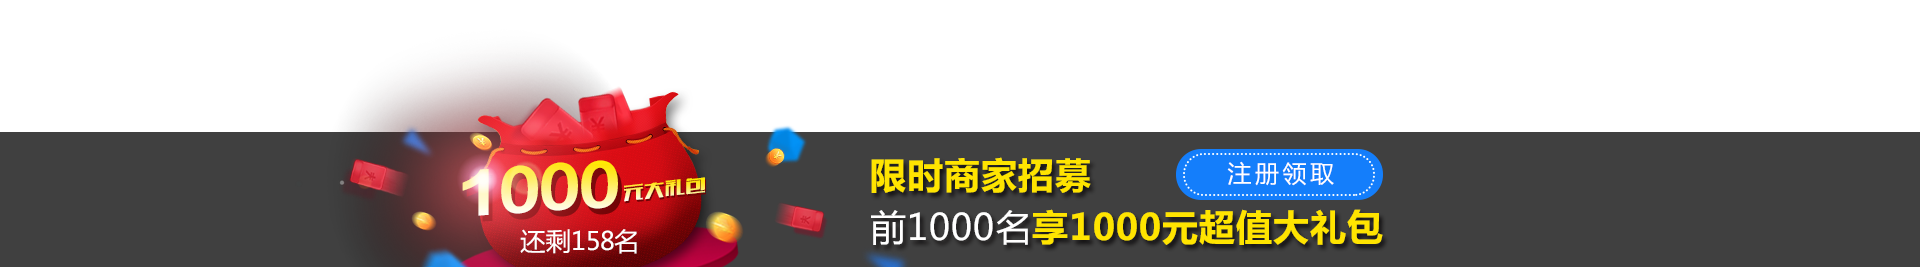
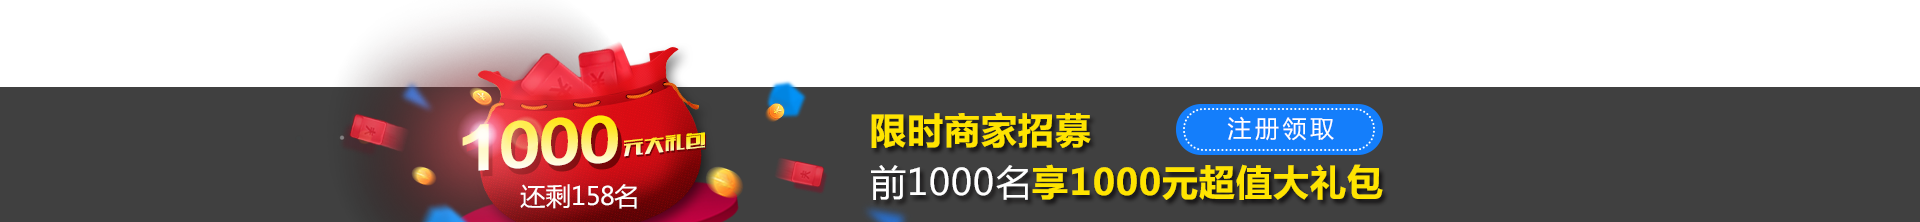
商家落地页开发

Changed region(s): [[0.0, 0.1081, 1.0, 0.973]]

diff --git a/src/view/SellerSpread.vue b/src/view/SellerSpread.vue
@@ -2,7 +2,7 @@
   <div class="seller-adv">
 
     <div id="pageContain">
-      <div class="page page1 current">
+      <div class="page page1 current ">
         <div class="contain">
           <div>
             <router-link to="/" class="left">
@@ -16,12 +16,17 @@
               </a>
             </p>
           </div>
-          <div class="clear-both text-ct adv-text1-box">
-            <p>
+          <div class="clear-both text-ct adv-text1-box ">
+            <p class="title">
               <img class="adv-text-img" src="/static/img/seller-adv/seller-adv-text1.png" alt="">
             </p>
+            <div class="titleEng">
+              <router-link to="/register/seller-register" class="adv-login-register ">立即注册</router-link>
+              <a class="block move-arrow-down" style="margin-top: 140px " @click="FullPage.next()">
+                <img src="/static/img/common/big-down.png" alt="">
+              </a>
+            </div>
 
-            <router-link to="/register/seller-register" class="adv-login-register">立即注册</router-link>
           </div>
         </div>
       </div>
@@ -39,12 +44,17 @@
               </a>
             </p>
           </div>
-          <div class="clear-both text-ct adv-text1-box">
-            <p class="">
+          <div class="clear-both text-ct adv-text1-box ">
+            <p class="title">
               <img class="adv-text-img" src="/static/img/seller-adv/seller-adv-text2.png" alt="">
             </p>
+            <div class="titleEng">
+              <router-link to="/register/seller-register" class="adv-login-register ">立即注册</router-link>
+              <a class="block move-arrow-down" style="margin-top: 140px " @click="FullPage.next()">
+                <img src="/static/img/common/big-down.png" alt="">
+              </a>
+            </div>
 
-            <router-link to="/register/seller-register" class="adv-login-register">立即注册</router-link>
           </div>
         </div>
       </div>
@@ -62,12 +72,17 @@
               </a>
             </p>
           </div>
-          <div class="clear-both text-ct adv-text1-box">
-            <p>
+          <div class="clear-both text-ct adv-text1-box ">
+            <p class="title">
               <img class="adv-text-img" src="/static/img/seller-adv/seller-adv-text3.png" alt="">
             </p>
+            <div class="titleEng">
+              <router-link to="/register/seller-register" class="adv-login-register ">立即注册</router-link>
+              <a class="block move-arrow-down" style="margin-top: 140px " @click="FullPage.next()">
+                <img src="/static/img/common/big-down.png" alt="">
+              </a>
+            </div>
 
-            <router-link to="/register/seller-register" class="adv-login-register">立即注册</router-link>
           </div>
         </div>
       </div>
@@ -85,12 +100,17 @@
               </a>
             </p>
           </div>
-          <div class="clear-both text-ct adv-text1-box">
-            <p>
+          <div class="clear-both text-ct adv-text1-box ">
+            <p class="title">
               <img class="adv-text-img" src="/static/img/seller-adv/seller-adv-text4.png" alt="">
             </p>
+            <div class="titleEng">
+              <router-link to="/register/seller-register" class="adv-login-register ">立即注册</router-link>
+              <a class="block move-arrow-down" style="margin-top: 70px " @click="FullPage.go(0)">
+                <img src="/static/img/common/big-down.png" alt="">
+              </a>
+            </div>
 
-            <router-link to="/register/seller-register" class="adv-login-register">立即注册</router-link>
           </div>
         </div>
       </div>
@@ -101,7 +121,7 @@
       <li></li>
       <li></li>
     </ul>
-    <div v-show="advBottomShow" style="position: fixed; bottom: 0; width: 100%; z-index: 1;">
+    <div  :class="[advBottomShow ? 'animated fadeIn' : 'animated fadeOutDown']" style="position: fixed; bottom: 0; width: 100%; z-index: 1;">
       <a @click="goRegisterFunc($event)">
         <img src="/static/img/seller-adv/adv-bottom.png" alt="" style="width: 100%; display: block;">
         <span class="clfff fs-20 adv-bottom-closed" @click="colsedAdvBottomFunc($event)">&times;</span>
@@ -132,6 +152,7 @@
           }
         },
         advBottomShow: true,
+        FullPage: null,
       }
     },
     created() {
@@ -151,8 +172,9 @@
       }
     },
     mounted: function () {
-      this.$nextTick(function () {
-        let runPage = new FullPage({
+      let self = this;
+      self.$nextTick(function () {
+        self.FullPage  = new FullPage({
 
           id : 'pageContain',                            // id of contain
           slideTime : 800,                               // time of slide
@@ -168,15 +190,15 @@
           mode : 'wheel,touch,nav:navBar',               // mode of fullpage
           start : 0,                                     // which page will display when install
           easing : 'fadeInDown',                                   // easing('ease','ease-in','ease-in-out' or use cubic-bezier like [.33, 1.81, 1, 1];
-          //  ,onSwipeStart : function(index, thisPage) {   // callback before pageChange
-          //    return 'stop';
-          //  }
-          //  ,beforeChange : function(index, thisPage) {   // callback before pageChange
-          //    return 'stop';
-          //  }
-          //  ,callback : function(index, thisPage) {       // callback when pageChange
-          //    alert(index);
-          //  };
+          onSwipeStart : function(index, thisPage) {   // callback before pageChange
+            self.advBottomShow = true;
+          },
+          beforeChange : function(index, thisPage) {   // callback before pageChange
+            self.advBottomShow = false;
+          },
+          callback : function(index, thisPage) {       // callback when pageChange
+            self.advBottomShow = true;
+          },
         });
 
       })
@@ -186,17 +208,6 @@
 
 <style lang="scss" scoped>
   @import 'src/css/mixin';
-  .seller-bottom{
-    background-color: #351E97;
-    height: 170px;
-    >div{
-      div{
-        width: 300px;
-        margin: 45px auto;
-        text-align: center;
-      }
-    }
-  }
   .adv-top-part{
     margin-right: 122px;
     margin-top: 55px;
@@ -231,7 +242,7 @@
     color: #fff;
   }
   .adv-text1-box{
-    margin-top: 10%;
+    margin-top: 8%;
     float: left;
     width: 100%;
   }
@@ -240,7 +251,7 @@
   }
   .adv-bottom-closed{
     position: absolute;
-    top: 48%;
+    top: 36%;
     right: 24%;
     z-index: 3;
     color: #fff;
@@ -338,7 +349,138 @@
     opacity: 0;
   }
 
+  .title,.titleEng {
+    -webkit-animation:dragTop .7s ease-in-out both;
+    -moz-animation:dragTop .7s ease-in-out both;
+    -ms-animation:dragTop .7s ease-in-out both;
+    animation:dragTop .7s ease-in-out both;
+    text-align: center;
+    color: #fff;
+    top: 13%;
+    left: 50%;
+  }
+  .title {
+    -webkit-animation-delay: .8s;
+    -moz-animation-delay:.8s;
+    -ms-animation-delay:.8s;
+    animation-delay:.8s;
+    width: 100%;
 
+  }
+  .titleEng {
+    -webkit-animation-delay: 1.2s;
+    -moz-animation-delay:1.2s;
+    -ms-animation-delay:1.2s;
+    animation-delay:1.2s;
+  }
+  .move-arrow-down {
+    -webkit-animation: float ease-in-out 2s infinite;
+    animation: float ease-in-out 2s infinite;
+  }
+  @-webkit-keyframes float {
+    0% {
+      -webkit-transform: translateY(0);
+      transform: translateY(0);
+    }
+    50% {
+      -webkit-transform: translateY(20px);
+      transform: translateY(20px);
+    }
+    100% {
+      -webkit-transform: translateY(0);
+      transform: translateY(0);
+    }
+  }
+  @keyframes float {
+    0% {
+      -webkit-transform: translateY(0);
+      transform: translateY(0);
+    }
+    50% {
+      -webkit-transform: translateY(20px);
+      transform: translateY(20px);
+    }
+    100% {
+      -webkit-transform: translateY(0);
+      transform: translateY(0);
+    }
+  }
+  @keyframes dragTop {
+    0% {
+      opacity:0;
+      transform:translateY(-70px)
+    }
+    60% {
+      opacity:1;
+      transform:translateY(20px)
+    }
+    90% {
+      transform:translateY(-5px)
+    }
+    97% {
+      transform:translateY(-1px)
+    }
+    100% {
+      transform:translateY(0px)
+    }
+  }
+  @-webkit-keyframes dragTop {
+    0% {
+      opacity:0;
+      -webkit-transform:translateY(-70px)
+    }
+    60% {
+      opacity:1;
+      -webkit-transform:translateY(20px)
+    }
+    90% {
+      -webkit-transform:translateY(-5px)
+    }
+    97% {
+      -webkit-transform:translateY(-1px)
+    }
+    100% {
+      -webkit-transform:translateY(0px)
+    }
+  }
+  @-moz-keyframes dragTop {
+    0% {
+      opacity:0;
+      -moz-transform:translateY(-70px)
+    }
+    60% {
+      opacity:1;
+      -moz-transform:translateY(20px)
+    }
+    90% {
+      -moz-transform:translateY(-5px)
+    }
+    97% {
+      -moz-transform:translateY(-1px)
+    }
+    100% {
+      -moz-transform:translateY(0px)
+    }
+  }
+  @-ms-keyframes dragTop {
+    0% {
+      opacity:0;
+      -ms-transform:translateY(-70px)
+    }
+    60% {
+      opacity:1;
+      -ms-transform:translateY(20px)
+    }
+    90% {
+      -ms-transform:translateY(-5px)
+    }
+    97% {
+      -ms-transform:translateY(-1px)
+    }
+    100% {
+      -ms-transform:translateY(0px)
+    }
+  }
 
 </style>
 

diff --git a/src/main.js b/src/main.js
@@ -9,6 +9,7 @@ import LoadingBar from 'iview/src/components/loading-bar'
 import Message from 'iview/src/components/message'
 import '../iview/iview.less'
 import '@/css/common.scss'
+import 'animate.css'
 
 Vue.config.productionTip = false;
 
@@ -38,6 +39,10 @@ router.beforeEach((to, from, next) => {
   store.commit({
     type: "CHANGE_TOP_SHOW_HIDE",
     status: to.meta.topShow
+  });
+  store.commit({
+    type: "CHANGE_BOTTOM_SHOW_HIDE",
+    status: to.meta.bottomShow
   });
   store.commit({
     type: "LOG_IN_AUTHORITY",
